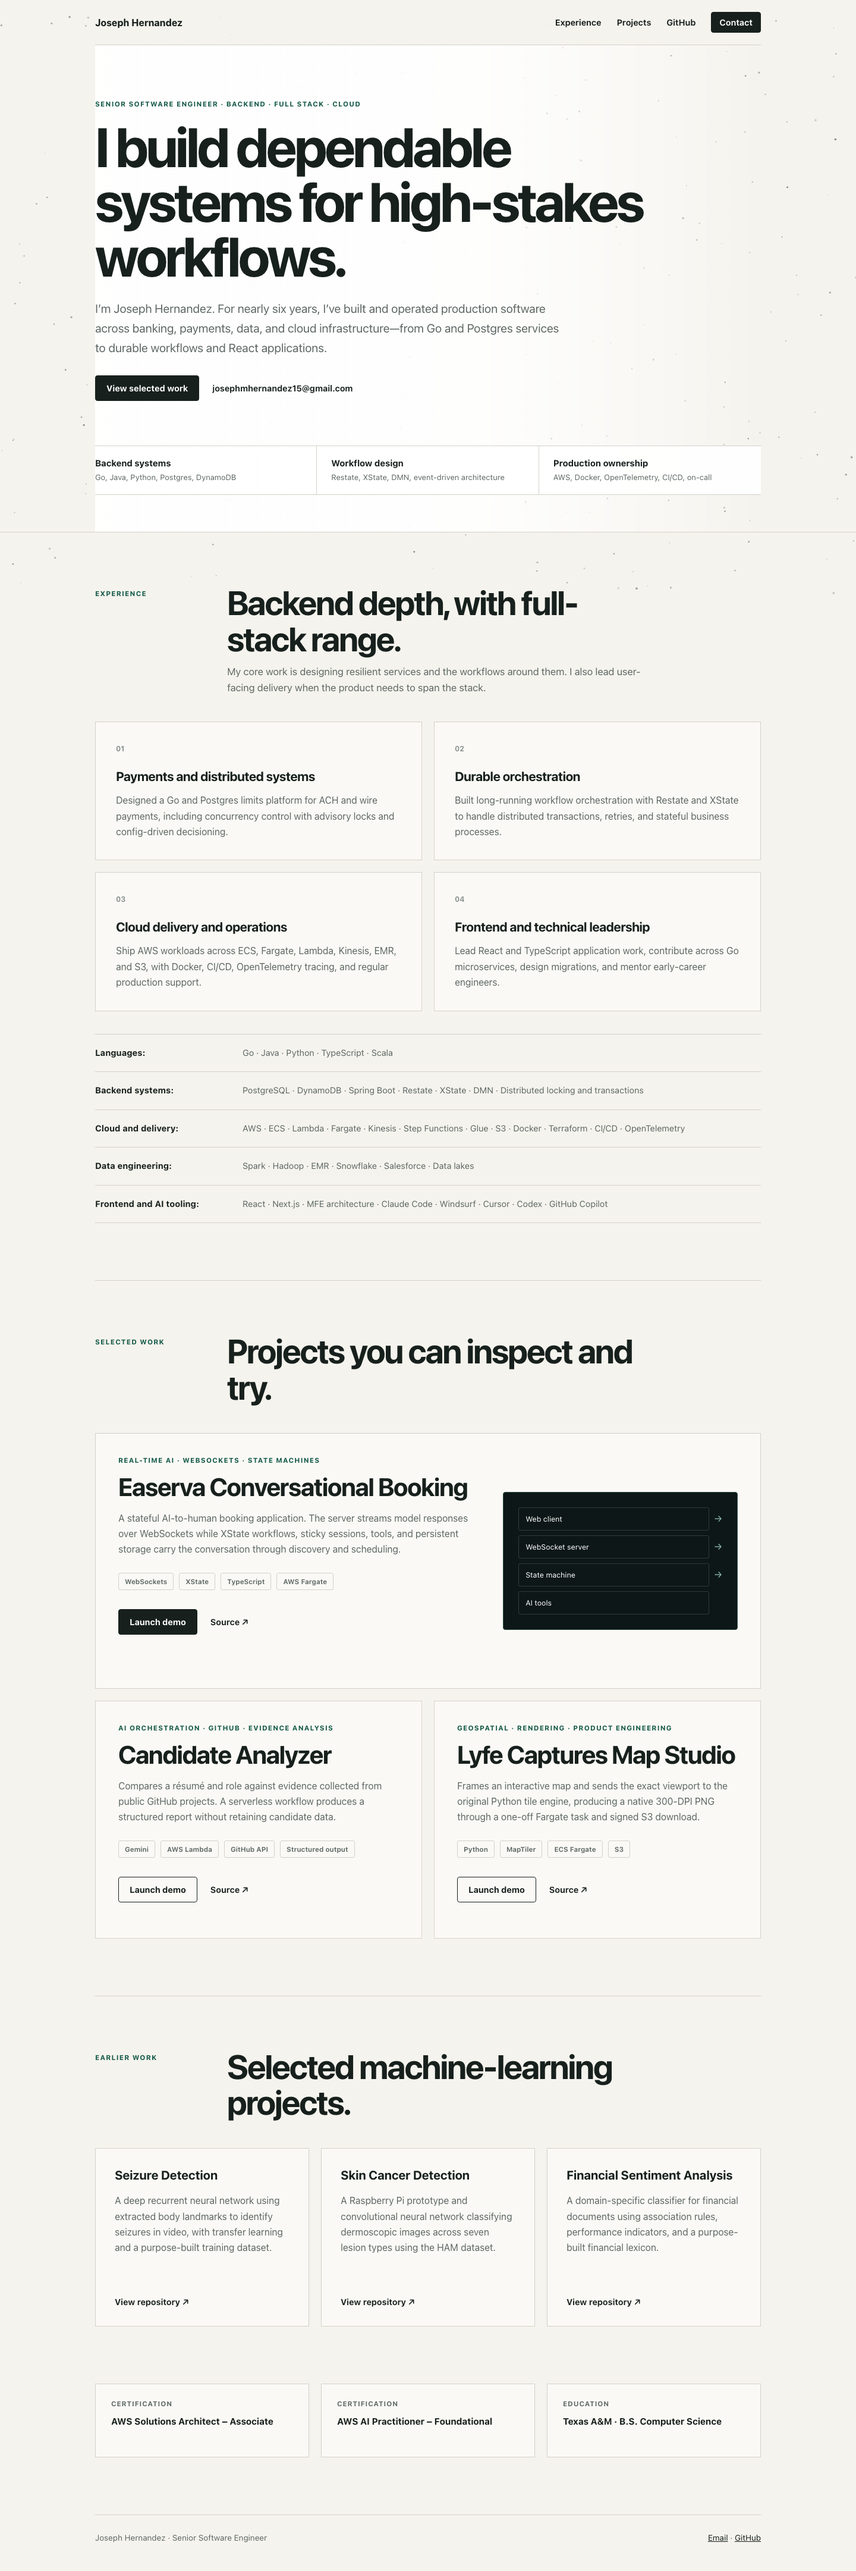
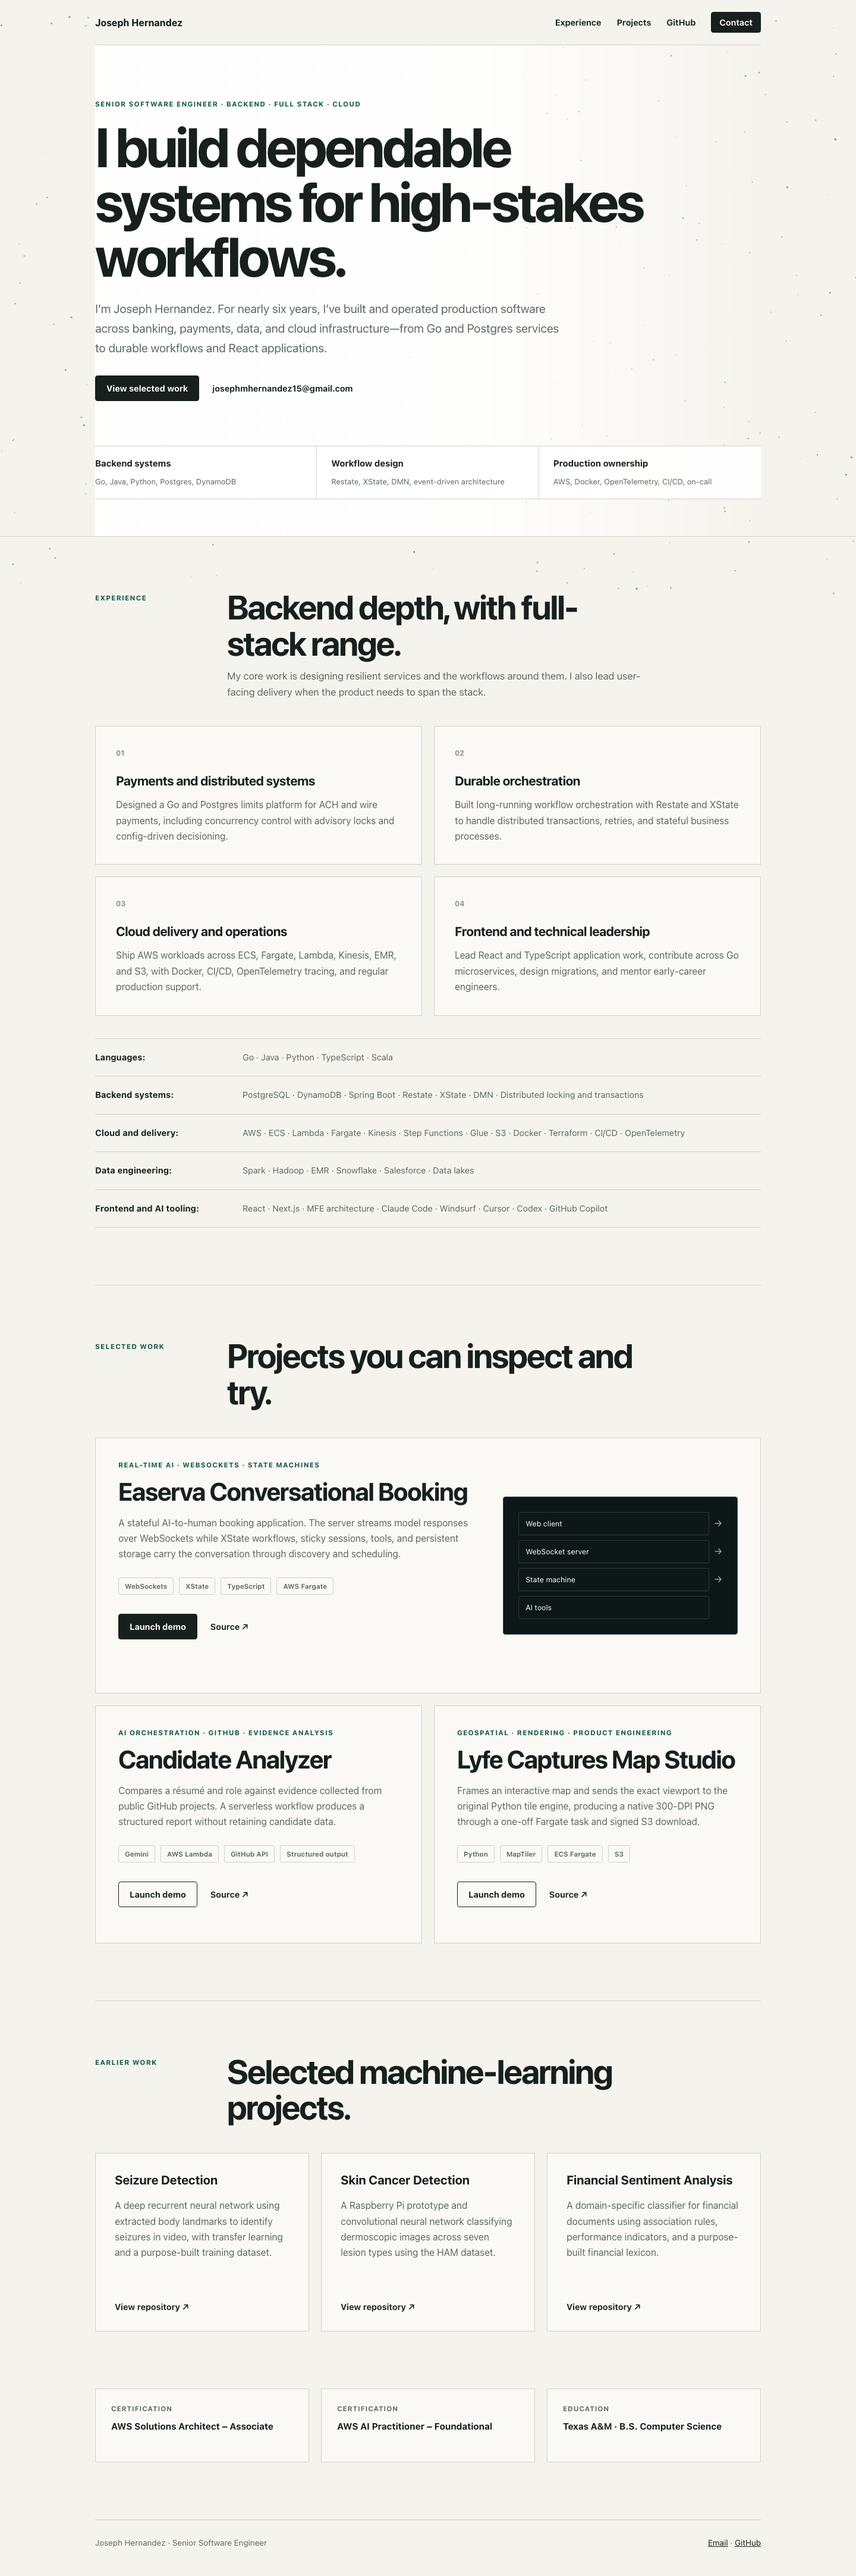
Separate hero summary labels on mobile

diff --git a/assets/site-tuning.css b/assets/site-tuning.css
@@ -97,6 +97,15 @@ footer {
   color: var(--muted);
 }
 
+.hero-facts strong,
+.hero-facts span {
+  display: block;
+}
+
+.hero-facts strong {
+  margin-bottom: 7px;
+}
+
 .skills {
   margin-top: 38px;
 }
@@ -219,12 +228,30 @@ footer {
 
   .hero-facts {
     margin-top: 54px;
+    gap: 14px;
+    border: 0;
+    background: transparent;
   }
 
   .hero-facts div,
   .hero-facts div:first-child {
-    padding: 18px 0;
-    border-color: var(--line);
+    display: block;
+    padding: 20px;
+    border: 1px solid var(--line);
+    background: #fffffff0;
+  }
+
+  .hero-facts div:last-child {
+    border: 1px solid var(--line);
+  }
+
+  .hero-facts strong {
+    margin-bottom: 9px;
+    line-height: 1.25;
+  }
+
+  .hero-facts span {
+    line-height: 1.55;
   }
 
   .section {
@@ -351,6 +378,17 @@ footer {
 
   .hero {
     padding-top: 58px;
+  }
+
+  .hero-facts {
+    margin-top: 46px;
+    gap: 12px;
+  }
+
+  .hero-facts div,
+  .hero-facts div:first-child,
+  .hero-facts div:last-child {
+    padding: 18px;
   }
 
   .hero .eyebrow,
